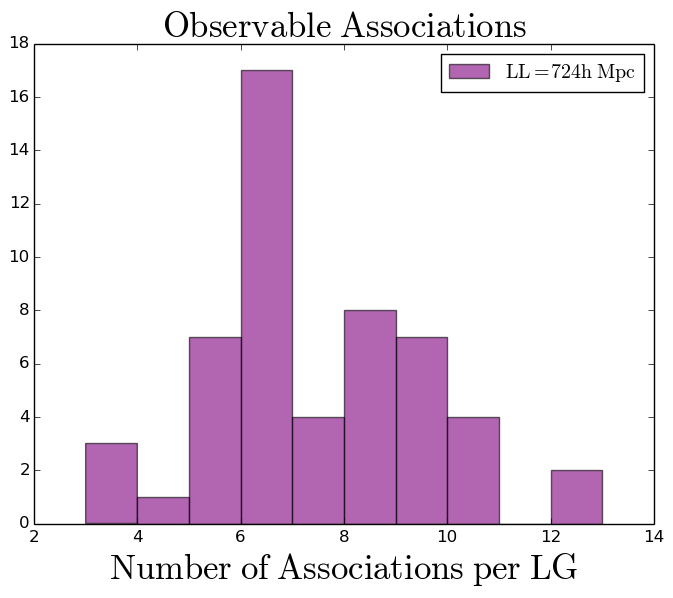
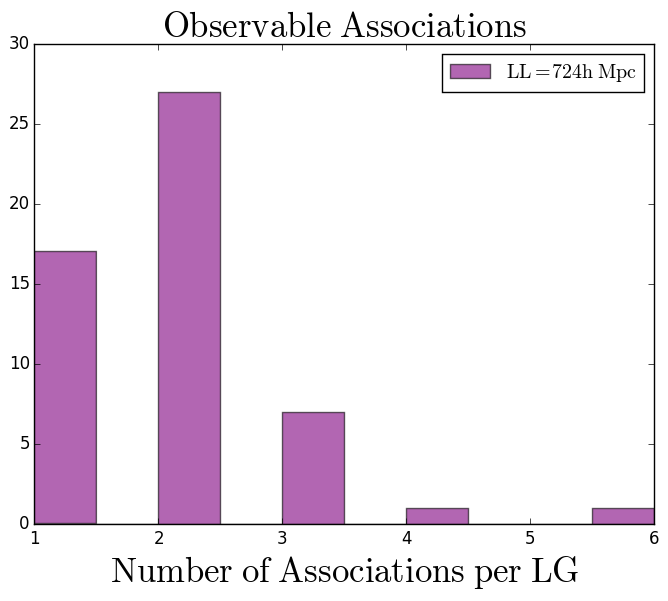
LL/h

diff --git a/code/FOF/functions.py b/code/FOF/functions.py
@@ -36,7 +36,7 @@ def fof(x, y, z, vx, vy, vz, N, snap_fof):
         h = 0.7
         LL_min = 526 # Linking Lenght in Kpc, taken from observational treshold (FOF-observed-associations.ipynb)
         LL_max = 724 # Max Linking Length in Kpc
-        os.system(('./../../../HackFOF/src/fof -e %f -m 2  -px 75000 -pz 75000 < ' +  snap_fof)%(LL_min*h)) 
+        os.system(('./../../../HackFOF/src/fof -e %f -m 2  -px 75000 -pz 75000 < ' +  snap_fof)%(LL_min/h)) 
         fof_groups = np.loadtxt('fof.grp', skiprows=1)
         N_as_min = len(list(set(fof_groups)))
         ## Esto sobrescribe los datos de las asociaciones--------------------------
@@ -46,13 +46,16 @@ def fof(x, y, z, vx, vy, vz, N, snap_fof):
         f.close()
         f = open("A_max" + snap_fof, "w")
         #  [-px <xPeriod>] [-py <yPeriod>] [-pz <zPeriod>] FOF periodic conditions       
-        os.system(('./../../../HackFOF/src/fof -e %f -m 2  -px 75000 -pz 75000 < '+ snap_fof)%(LL_max*h)) 
+        os.system(('./../../../HackFOF/src/fof -e %f -m 2  -px 75000 -pz 75000 < '+ snap_fof)%(LL_max/h)) 
 	fof_groups = np.loadtxt('fof.grp', skiprows=1)
         N_as_max = len(list(set(fof_groups)))
         for j in range(len(x)):
         	f.write(("%f \t %f \t %f \t %f \t %f \t %f \t %f \n" )%(x[j], y[j], z[j], vx[j], vy[j], vz[j], fof_groups[j]))
         f.close()
 	return N_as_min, N_as_max
+
+
+#def N_associations()
 
 def dispersiones_x(snap_fof):
         data_min = np.loadtxt("A_min" + snap_fof)
